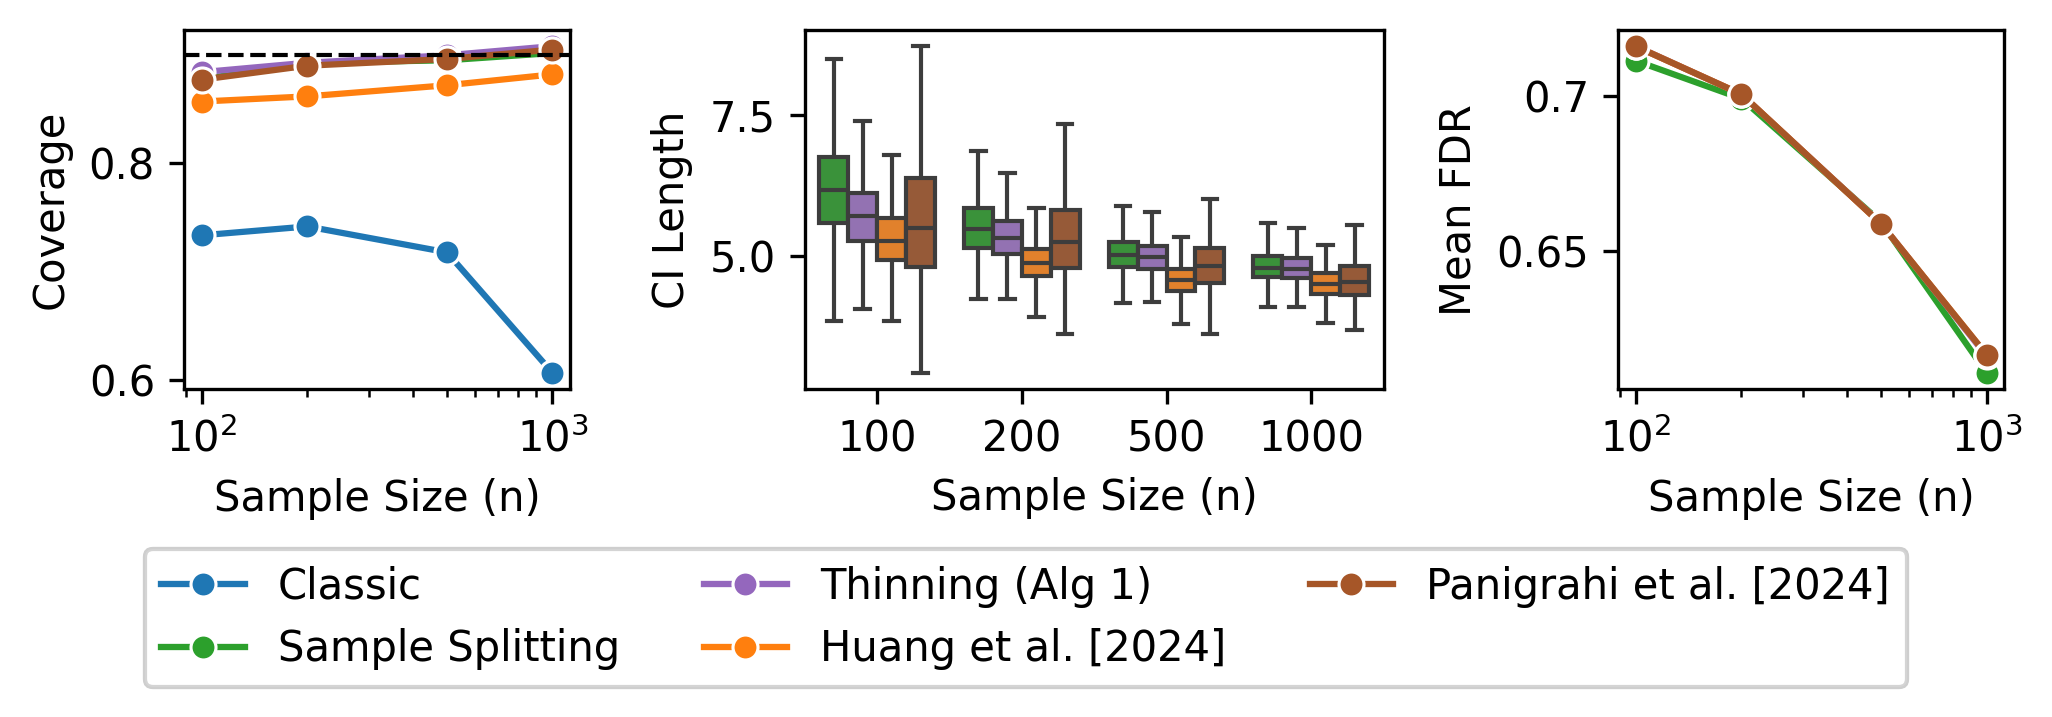
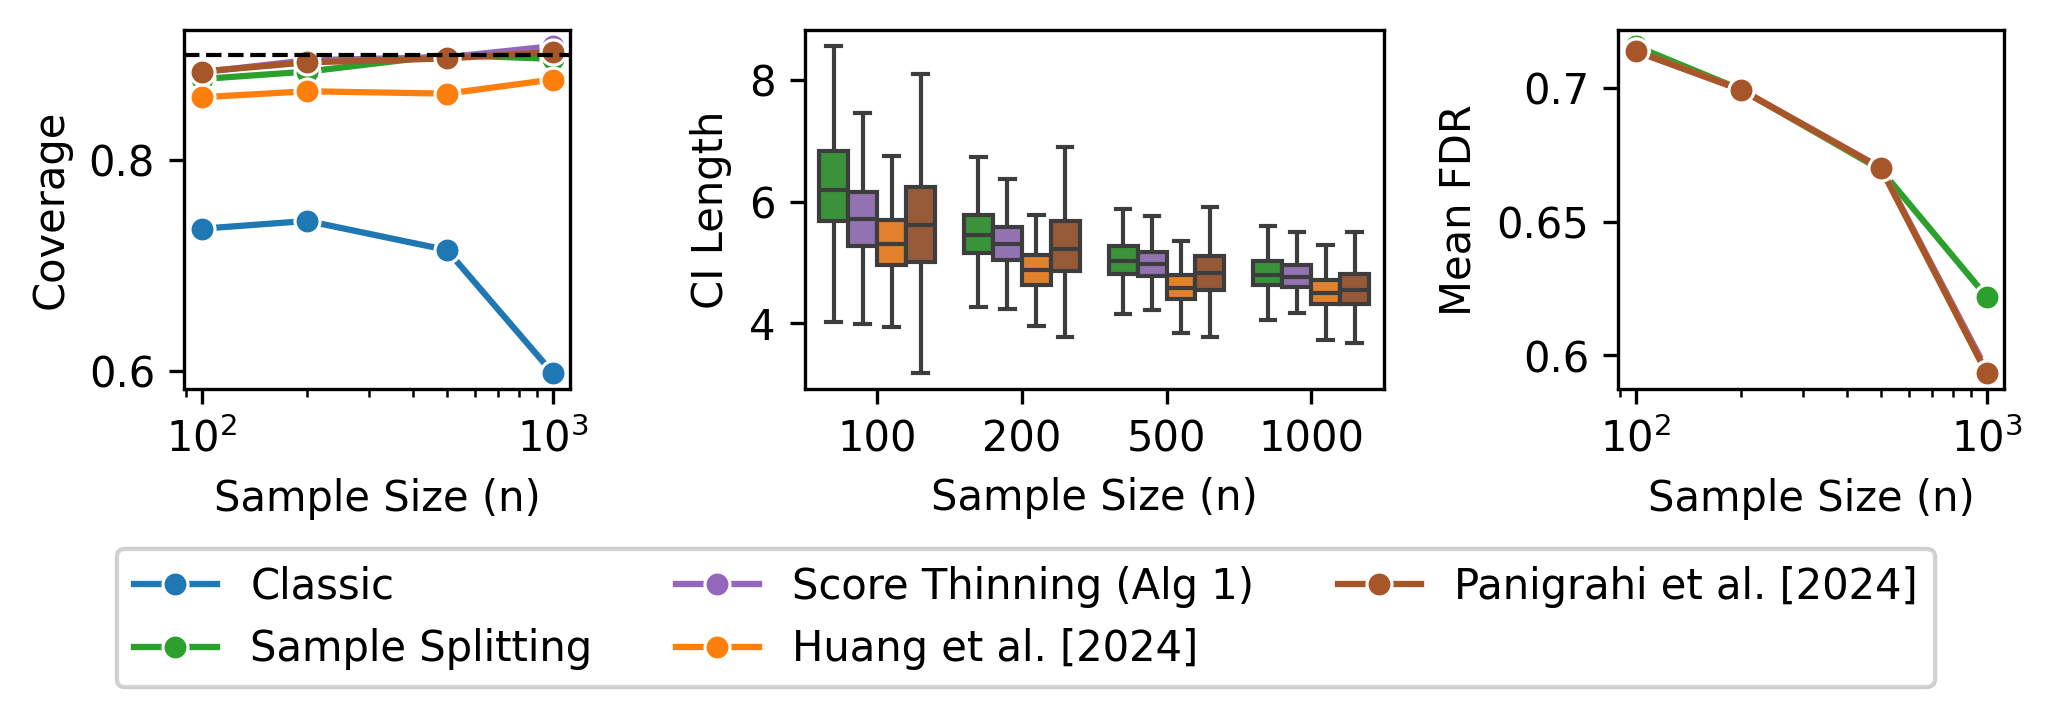
fixed exact hessian gamma

diff --git a/experiments/glm_confints.py b/experiments/glm_confints.py
@@ -15,7 +15,9 @@ from m_estimation_SI.utils.cv import (
 from selectinf.group_lasso_query import group_lasso
 
 # from selectinf2.Tests.instance import gaussian_instance
+import regreg.api as rr
 from selectinf2.lasso import lasso
+from selectinf2.randomization import randomization as _randomization2
 from selectinf2.Utils.base import selected_targets as selected_targets2
 
 from selectinf.base import selected_targets
@@ -170,7 +172,7 @@ def sample_splitting_si(
     n = X.shape[0]
 
     if clusters is None:
-        train_indices = np.random.choice(n, int(n * 1 / (1 + gamma)), replace=False)
+        train_indices = np.random.choice(n, int(n * 1 / (1 + gamma**2)), replace=False)
     else:
         unique_clusters = np.unique(clusters)
         train_clusters = np.random.choice(
@@ -235,14 +237,15 @@ def poisson_thinning_si(X, Y, mu, penalty, level, gamma, intercept):
     Y_thin. Unlike sample splitting, all n observations contribute to both
     halves.
 
-    epsilon = gamma / (1 + gamma) mirrors the sample-splitting convention.
+    epsilon = gamma**2 / (1 + gamma**2) mirrors the thin_outcomes_si convention,
+    giving an information ratio inference:selection of gamma**2.
 
     Both halves are rescaled by their epsilon factors to restore mean mu,
     so no intercept offset adjustment is required and the intercept flag
     is respected as-is.
     """
     n, _ = X.shape
-    epsilon = gamma / (1 + gamma)
+    epsilon = gamma**2 / (1 + gamma**2)
 
     # Binomial thinning — requires integer counts
     Y_int = np.round(Y).astype(int)
@@ -310,7 +313,7 @@ def binomial_thinning_si(X, Y, mu, penalty, level, gamma, intercept):
     from scipy.stats import hypergeom
 
     n = X.shape[0]
-    epsilon = gamma / (1 + gamma)
+    epsilon = gamma**2 / (1 + gamma**2)
 
     X_bin, group_ids = np.unique(X, axis=0, return_inverse=True)
     B = len(X_bin)
@@ -483,7 +486,8 @@ def negbinom_thinning_si(
     so inference targets are identical to those of classic_si and no offset
     adjustment is needed.
 
-    epsilon = gamma / (1 + gamma) mirrors the sample-splitting convention.
+    epsilon = gamma**2 / (1 + gamma**2) mirrors the thin_outcomes_si convention,
+    giving an information ratio inference:selection of gamma**2.
     Both halves are rescaled by their epsilon factors to restore mean mu,
     so no intercept offset adjustment is required and the intercept flag
     is respected as-is.
@@ -509,7 +513,7 @@ def negbinom_thinning_si(
                 .theta_
             )
 
-    epsilon = gamma / (1 + gamma)
+    epsilon = gamma**2 / (1 + gamma**2)
     theta_thin = epsilon * theta
     theta_train = (1 - epsilon) * theta
 
@@ -918,24 +922,17 @@ def randomized_conditional_exact(
     perturb = gamma * X.T @ W  # they subtract the noise, loss is not scaled by 1/n
 
     if family == "linear":
-        conv = lasso.gaussian(
-            X,
-            Y,
-            penalty * n,
-            ridge_term=0.0,
-            # randomizer_scale=hess,
-        )
+        loglike = rr.glm.gaussian(X, Y)
     elif family == "logistic":
-        conv = lasso.logistic(
-            X,
-            Y,
-            penalty * n,
-            ridge_term=0.0,
-            # randomizer_scale=hess,
-        )
+        loglike = rr.glm.logistic(X, Y)
         dispersion = 1
     else:
         raise ValueError(f"Family {family} not supported")
+
+    # Build lasso directly so the randomizer covariance matches Cov(perturb) = hess.
+    # lasso.gaussian / lasso.logistic hardcode their own cov_rand (X.T@X or isotropic),
+    # which does not vary with gamma, causing CI widths to be insensitive to gamma.
+    conv = lasso(loglike, np.ones(X.shape[1]) * penalty * n, 0.0, _randomization2.gaussian(hess))
 
     signs = conv.fit(perturb=perturb, solve_args={"tol": 1.0e-8 * n, "min_its": 50})
     sel = np.where(signs != 0)[0]
@@ -1453,7 +1450,7 @@ def main(args):
                 n=n,
                 p=p,
                 family=args.family,
-                gamma=info / (1 - info) if info_name == 'epsilon' else info,
+                gamma=np.sqrt(info / (1 - info)) if info_name == 'epsilon' else info,
                 sparsity=sparsity,
                 level=args.level,
                 signal=args.signal,
